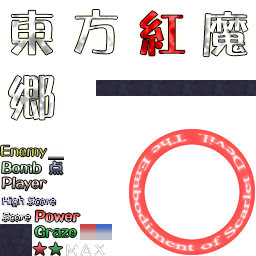
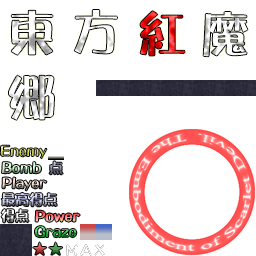
add game statics display

Changed region(s): [[0.0, 0.75, 0.25, 0.875]]

diff --git a/index.html b/index.html
@@ -62,7 +62,7 @@ input[type="radio"]:focus + label {
 .info {
 	color: #eee;
 	margin-top: 58px;
-	margin-left: 434px;
+	margin-left: 432px;
 }
 .logo {
 	margin-top: 294px;
@@ -101,6 +101,100 @@ input[type="radio"]:focus + label {
 	position: absolute;
 	width: 100%;
 	height: 480px;
+}
+
+.line {
+	height: 24px;
+}
+.line-small {
+	height: 20px;
+}
+.line-sep {
+	height: 16px;
+}
+.label {
+	float: left;
+	width: 64px;
+}
+.label>* {
+	background: url(res/front.png);
+	height: 16px;
+}
+.label-max-point {
+	width: 64px;
+	background-position: 0 -192px;
+}
+.label-point {
+	width: 32px;
+	background-position: 0 -208px;
+}
+.label-player {
+	width: 64px;
+	background-position: 0 -176px;
+}
+.label-bomb {
+	width: 48px;
+	background-position: 0 -161px;
+}
+.label-power {
+	width: 64px;
+	background-position: -32px -208px;
+}
+.label-graze {
+	width: 48px;
+	background-position: -32px -224px;
+}
+.label-dot {
+	width: 48px;
+	background-position: -48px -160px;
+}
+.player {
+	background: url(res/front.png) -32px -240px;
+	float: left;
+	width: 16px;
+	height: 16px;
+}
+.bomb {
+	background: url(res/front.png) -48px -240px;
+	float: left;
+	width: 16px;
+	height: 16px;
+}
+.num {
+	background: url(res/ascii.png) 0 -32px;
+	float: left;
+	width: 14px;
+	height: 16px;
+}
+.n0 {
+	background-position: -0     -48px;
+}
+.n1 {
+	background-position: -16px  -48px;
+}
+.n2 {
+	background-position: -32px  -48px;
+}
+.n3 {
+	background-position: -48px  -48px;
+}
+.n4 {
+	background-position: -64px  -48px;
+}
+.n5 {
+	background-position: -80px  -48px;
+}
+.n6 {
+	background-position: -96px  -48px;
+}
+.n7 {
+	background-position: -112px -48px;
+}
+.n8 {
+	background-position: -128px -48px;
+}
+.n9 {
+	background-position: -144px -48px;
 }
 </style>
 </head>
@@ -233,11 +327,82 @@ input[type="radio"]:focus + label {
 	</div>
 	<canvas class="game absolute" id="canv" width="384px" height="448px"></canvas>
 	<div class="info absolute">
-		<div>fps: <span class="ui" ui-bind="GAME.fps.toFixed(2)+' / '+GAME.tick"></span></div>
-		<div>story: <span class="ui" ui-bind="STORY.state.n"></span></div>
-		<div>graze: <span class="ui" ui-bind="GAME.statics.graze"></span></div>
-		<div>point: <span class="ui" ui-bind="GAME.statics.point"></span></div>
-		<div>miss: <span class="ui" ui-bind="GAME.statics.miss"></span></div>
+		<div class="line">
+			<div class="label"><div class="label-max-point"></div></div>
+			<div class="ui" ui-bind="'ui num n'+getNum(GAME.statics.max_point+1e9, 1)" ui-bind-attr="this.className"></div>
+			<div class="ui" ui-bind="'ui num n'+getNum(GAME.statics.max_point+1e9, 2)" ui-bind-attr="this.className"></div>
+			<div class="ui" ui-bind="'ui num n'+getNum(GAME.statics.max_point+1e9, 3)" ui-bind-attr="this.className"></div>
+			<div class="ui" ui-bind="'ui num n'+getNum(GAME.statics.max_point+1e9, 4)" ui-bind-attr="this.className"></div>
+			<div class="ui" ui-bind="'ui num n'+getNum(GAME.statics.max_point+1e9, 5)" ui-bind-attr="this.className"></div>
+			<div class="ui" ui-bind="'ui num n'+getNum(GAME.statics.max_point+1e9, 6)" ui-bind-attr="this.className"></div>
+			<div class="ui" ui-bind="'ui num n'+getNum(GAME.statics.max_point+1e9, 7)" ui-bind-attr="this.className"></div>
+			<div class="ui" ui-bind="'ui num n'+getNum(GAME.statics.max_point+1e9, 8)" ui-bind-attr="this.className"></div>
+			<div class="ui" ui-bind="'ui num n'+getNum(GAME.statics.max_point+1e9, 9)" ui-bind-attr="this.className"></div>
+		</div>
+		<div class="line">
+			<div class="label"><div class="label-point"></div></div>
+			<div class="ui" ui-bind="'ui num n'+getNum(GAME.statics.point+1e9, 1)" ui-bind-attr="this.className"></div>
+			<div class="ui" ui-bind="'ui num n'+getNum(GAME.statics.point+1e9, 2)" ui-bind-attr="this.className"></div>
+			<div class="ui" ui-bind="'ui num n'+getNum(GAME.statics.point+1e9, 3)" ui-bind-attr="this.className"></div>
+			<div class="ui" ui-bind="'ui num n'+getNum(GAME.statics.point+1e9, 4)" ui-bind-attr="this.className"></div>
+			<div class="ui" ui-bind="'ui num n'+getNum(GAME.statics.point+1e9, 5)" ui-bind-attr="this.className"></div>
+			<div class="ui" ui-bind="'ui num n'+getNum(GAME.statics.point+1e9, 6)" ui-bind-attr="this.className"></div>
+			<div class="ui" ui-bind="'ui num n'+getNum(GAME.statics.point+1e9, 7)" ui-bind-attr="this.className"></div>
+			<div class="ui" ui-bind="'ui num n'+getNum(GAME.statics.point+1e9, 8)" ui-bind-attr="this.className"></div>
+			<div class="ui" ui-bind="'ui num n'+getNum(GAME.statics.point+1e9, 9)" ui-bind-attr="this.className"></div>
+		</div>
+		<div class="line-sep"></div>
+		<div class="line">
+			<div class="label"><div class="label-player"></div></div>
+			<div class="ui player" ui-show="GAME.statics.player > 0"></div>
+			<div class="ui player" ui-show="GAME.statics.player > 1"></div>
+			<div class="ui player" ui-show="GAME.statics.player > 2"></div>
+			<div class="ui player" ui-show="GAME.statics.player > 3"></div>
+			<div class="ui player" ui-show="GAME.statics.player > 4"></div>
+			<div class="ui player" ui-show="GAME.statics.player > 5"></div>
+			<div class="ui player" ui-show="GAME.statics.player > 6"></div>
+		</div>
+		<div class="line">
+			<div class="label"><div class="label-bomb"></div></div>
+			<div class="ui bomb" ui-show="GAME.statics.bomb > 0"></div>
+			<div class="ui bomb" ui-show="GAME.statics.bomb > 1"></div>
+			<div class="ui bomb" ui-show="GAME.statics.bomb > 2"></div>
+			<div class="ui bomb" ui-show="GAME.statics.bomb > 3"></div>
+			<div class="ui bomb" ui-show="GAME.statics.bomb > 4"></div>
+			<div class="ui bomb" ui-show="GAME.statics.bomb > 5"></div>
+			<div class="ui bomb" ui-show="GAME.statics.bomb > 6"></div>
+		</div>
+		<div class="line-sep"></div>
+		<div class="line-small">
+			<div class="label"><div class="label-power"></div></div>
+			<div class="ui" ui-bind="'ui num n'+getNum(GAME.statics.power, 0)" ui-bind-attr="this.className"></div>
+			<div class="ui" ui-bind="'ui num n'+getNum(GAME.statics.power, 1)" ui-bind-attr="this.className"></div>
+			<div class="ui" ui-bind="'ui num n'+getNum(GAME.statics.power, 2)" ui-bind-attr="this.className"></div>
+		</div>
+		<div class="line-small">
+			<div class="label"><div class="label-graze"></div></div>
+			<div class="ui" ui-bind="'ui num n'+getNum(GAME.statics.graze, 0)" ui-bind-attr="this.className"></div>
+			<div class="ui" ui-bind="'ui num n'+getNum(GAME.statics.graze, 1)" ui-bind-attr="this.className"></div>
+			<div class="ui" ui-bind="'ui num n'+getNum(GAME.statics.graze, 2)" ui-bind-attr="this.className"></div>
+			<div class="ui" ui-bind="'ui num n'+getNum(GAME.statics.graze, 3)" ui-bind-attr="this.className"></div>
+			<div class="ui" ui-bind="'ui num n'+getNum(GAME.statics.graze, 4)" ui-bind-attr="this.className"></div>
+			<div class="ui" ui-bind="'ui num n'+getNum(GAME.statics.graze, 5)" ui-bind-attr="this.className"></div>
+			<div class="ui" ui-bind="'ui num n'+getNum(GAME.statics.graze, 6)" ui-bind-attr="this.className"></div>
+			<div class="ui" ui-bind="'ui num n'+getNum(GAME.statics.graze, 7)" ui-bind-attr="this.className"></div>
+			<div class="ui" ui-bind="'ui num n'+getNum(GAME.statics.graze, 8)" ui-bind-attr="this.className"></div>
+		</div>
+		<div class="line-small">
+			<div class="label"><div class="label-dot"></div></div>
+			<div class="ui" ui-bind="'ui num n'+getNum(GAME.statics.dot, 0)" ui-bind-attr="this.className"></div>
+			<div class="ui" ui-bind="'ui num n'+getNum(GAME.statics.dot, 1)" ui-bind-attr="this.className"></div>
+			<div class="ui" ui-bind="'ui num n'+getNum(GAME.statics.dot, 2)" ui-bind-attr="this.className"></div>
+			<div class="ui" ui-bind="'ui num n'+getNum(GAME.statics.dot, 3)" ui-bind-attr="this.className"></div>
+			<div class="ui" ui-bind="'ui num n'+getNum(GAME.statics.dot, 4)" ui-bind-attr="this.className"></div>
+			<div class="ui" ui-bind="'ui num n'+getNum(GAME.statics.dot, 5)" ui-bind-attr="this.className"></div>
+			<div class="ui" ui-bind="'ui num n'+getNum(GAME.statics.dot, 6)" ui-bind-attr="this.className"></div>
+			<div class="ui" ui-bind="'ui num n'+getNum(GAME.statics.dot, 7)" ui-bind-attr="this.className"></div>
+			<div class="ui" ui-bind="'ui num n'+getNum(GAME.statics.dot, 8)" ui-bind-attr="this.className"></div>
+		</div>
 	</div>
 	<div class="logo absolute">
 		<div class="tr">
@@ -265,6 +430,10 @@ input[type="radio"]:focus + label {
 			<p><input type="radio" name="pause_menu" value="window.close()"><label>Quit</label></p>
 			<input style="width:0px;opacity:0;" type="submit" />
 		</form>
+	</div>
+	<div class="game absolute" style="color:white">
+		<div>fps: <span class="ui" ui-bind="GAME.fps.toFixed(2)+' / '+GAME.tick"></span></div>
+		<div>story: <span class="ui" ui-bind="STORY.state.n"></span></div>
 	</div>
 </div>
 <div class="ui" ui-show="RES.process < 1">
@@ -306,6 +475,10 @@ function getRadioVal(ls) {
 	return ieach(ls, function(i, v) {
 		if (v.checked) return v.value;
 	});
+}
+
+function getNum(n, i) {
+	return (n + '').substr(i, 1);
 }
 
 function loadAndStart() {

diff --git a/game.js b/game.js
@@ -1891,9 +1891,13 @@ function killObj() {
 GAME.objects = {
 };
 GAME.statics = {
-	graze: 0,
+	max_point: 1000000,
 	point: 0,
-	miss: 0
+	player: 7,
+	bomb: 7,
+	power: 255,
+	graze: 0,
+	dot: 0,
 };
 var hook = {
 	init: function(n, d) {
@@ -1946,10 +1950,11 @@ var hook = {
 			SPRITE.newObj('Drop', { vx:-0.5, vy:-0.85, x:x, y:y });
 			SPRITE.newObj('Drop', { vx: 0.5, vy:-0.85, x:x, y:y });
 			SPRITE.newObj('Drop', { vx:   1, vy: -0.8, x:x, y:y });
+			GAME.statics.player --;
 		}
 		else if (e == STORY.events.PLAYER_DEAD) {
-			GAME.statics.miss ++;
 			GAME.objects.player = newPlayer();
+			GAME.statics.bomb = 7;
 		}
 		else if (e == STORY.events.PLAYER_FIRE) {
 			if (!d.disable_fire)
@@ -1958,6 +1963,7 @@ var hook = {
 				});
 		}
 		else if (e == STORY.events.PLAYER_BOMB) {
+			GAME.statics.bomb --;
 			v.state.set('bomb');
 			newBomb(v);
 		}
